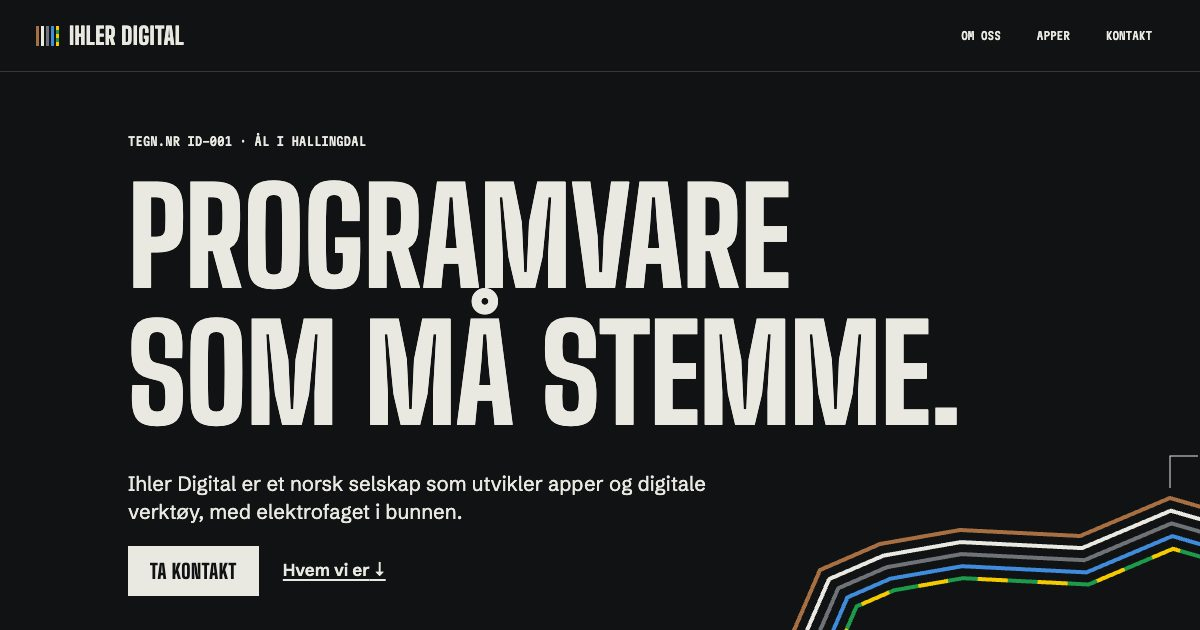
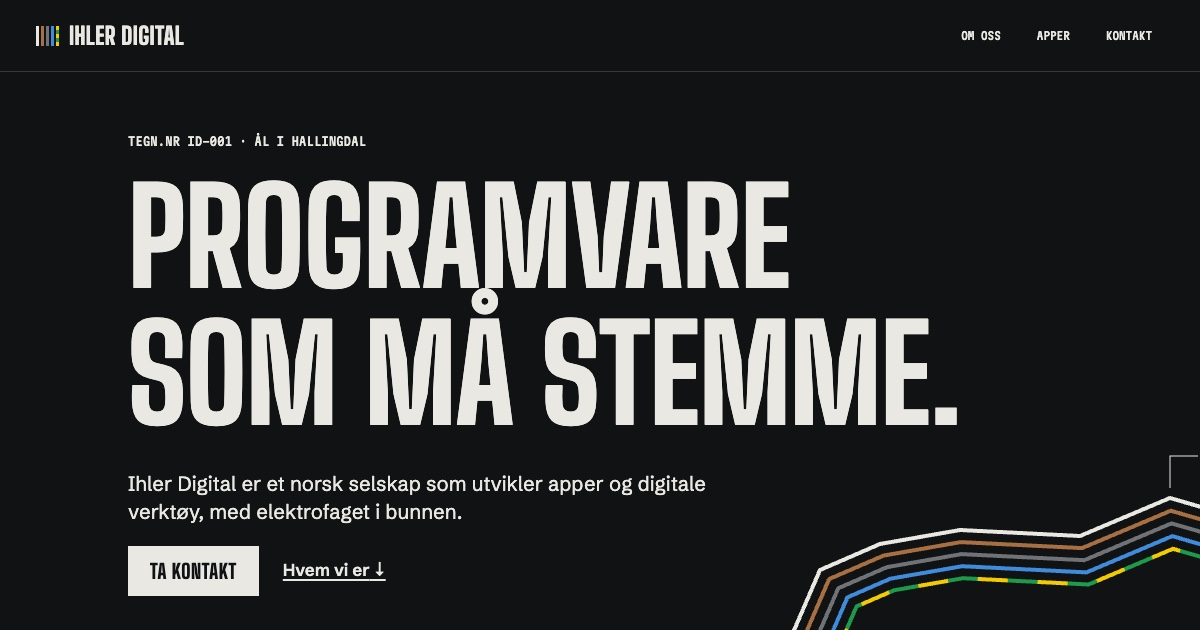
Rett faserekkefølgen til norsk NEK 400: L1 sort, L2 brun, L3 grå

Changed region(s): [[0.6475, 0.7841, 1.0, 1.0]]

diff --git a/style.css b/style.css
@@ -5,7 +5,7 @@
 
 :root{
   --papir:#e7e8e3;--flate:#f3f3ef;--blekk:#14161a;--dempet:#4c5057;--strek:#14161a2e;
-  --l1:#7a4a26;--l2:#14161a;--l3:#8a8d90;--n:#1c69be;--pe-g:#1e9a4b;--pe-y:#f4cb00;
+  --l1:#14161a;--l2:#7a4a26;--l3:#8a8d90;--n:#1c69be;--pe-g:#1e9a4b;--pe-y:#f4cb00;
   --lenke:currentColor;
   --gul:#ffc800;--paa-gul:#14161a;
   --stor:"Big Shoulders",Impact,"Arial Narrow",sans-serif;
@@ -16,7 +16,7 @@
 }
 @media (prefers-color-scheme:dark){:root{
   --papir:#101214;--flate:#191c1f;--blekk:#e9e9e2;--dempet:#a8acb0;--strek:#e9e9e22e;
-  --l1:#a86f42;--l2:#e9e9e2;--l3:#6f7377;--n:#3f8cdd;
+  --l1:#e9e9e2;--l2:#a86f42;--l3:#6f7377;--n:#3f8cdd;
 }}
 @media (min-width:820px){:root{--L:36px;--s:12px;--w:4px;--inn:128px;--hoyre:48px}}
 
@@ -103,13 +103,13 @@ tbody tr td:last-child{white-space:nowrap}
 
 /* Kurs-bånd */
 .kurs,.apphelt{position:relative;contain:paint;padding-block:clamp(44px,7vw,110px);background:var(--bg);color:var(--ink)}
-.el{--bg:var(--gul);--ink:#14161a;--blekk:#14161a;--l1:#7a4a26;--l2:#14161a;--l3:#5f6265;--n:#1457a3}
-.ga{--bg:#cfccc4;--ink:#1a1a18;--blekk:#1a1a18;--l1:#7a4a26;--l2:#1a1a18;--l3:#6d6f70;--n:#1457a3}
+.el{--bg:var(--gul);--ink:#14161a;--blekk:#14161a;--l1:#14161a;--l2:#7a4a26;--l3:#5f6265;--n:#1457a3}
+.ga{--bg:#cfccc4;--ink:#1a1a18;--blekk:#1a1a18;--l1:#1a1a18;--l2:#7a4a26;--l3:#6d6f70;--n:#1457a3}
 .hl{--bg:var(--flate);--ink:var(--blekk)}
-.tr{--bg:#3a2315;--ink:#fff3e0;--blekk:#fff3e0;--l1:#d59a63;--l2:#fff3e0;--l3:#a79a8c}
-.tl{--bg:#0d2b2b;--ink:#dcfbe9;--blekk:#dcfbe9;--l1:#c08a57;--l2:#dcfbe9;--l3:#8aa5a0}
+.tr{--bg:#3a2315;--ink:#fff3e0;--blekk:#fff3e0;--l1:#fff3e0;--l2:#d59a63;--l3:#a79a8c}
+.tl{--bg:#0d2b2b;--ink:#dcfbe9;--blekk:#dcfbe9;--l1:#dcfbe9;--l2:#c08a57;--l3:#8aa5a0}
 .tl .knapp{background:#4be3a8;color:#07211c}
-.bk{--bg:#1b2252;--ink:#fff;--blekk:#fff;--l1:#c08a57;--l2:#fff;--l3:#9aa2c0}
+.bk{--bg:#1b2252;--ink:#fff;--blekk:#fff;--l1:#fff;--l2:#c08a57;--l3:#9aa2c0}
 .sti{margin-bottom:14px}
 .kjempe{font:800 clamp(3.75rem,15.5vw,15rem)/.92 var(--stor);text-transform:uppercase;letter-spacing:-.005em}
 .kjempe span{display:block}

diff --git a/DESIGN.md b/DESIGN.md
@@ -12,7 +12,7 @@ Skjermbilder og tekst fra Panic, Teenage Engineering, Playdate, Lux (Halide) og 
 Fellesnevner for de særegne: ett eget *system* hentet fra det de faktisk driver med, ikke en stil.
 
 ## Retning: Koblingsskjemaet
-Selskapet har elektrofaget i huset. Hele nettstedet er tegnet som et elektroskjema. Fem ledere med ekte fargekoder (brun L1, svart L2, grå L3, blå N, gul/grønn PE) kommer inn fra høyre, tegner profilen av Hallingskarvet, faller ned i venstre marg og blir en samleskinne som går gjennom hele siden. Hver app er en **kurs** som er koblet på skinna. Bunnen er et **tittelfelt** som på en arbeidstegning.
+Selskapet har elektrofaget i huset. Hele nettstedet er tegnet som et elektroskjema. Fem ledere med ekte fargekoder (svart L1, brun L2, grå L3 (norsk NEK 400, 514.3.2), blå N, gul/grønn PE) kommer inn fra høyre, tegner profilen av Hallingskarvet, faller ned i venstre marg og blir en samleskinne som går gjennom hele siden. Hver app er en **kurs** som er koblet på skinna. Bunnen er et **tittelfelt** som på en arbeidstegning.
 
 Tonen er verkstedets: kort, tørr, konkret. Ingen «innovative løsninger». Tall og mål framfor adjektiver.
 
@@ -27,7 +27,8 @@ Papir er kaldt tegnegrått, ikke varm krem. Blekk er nesten svart.
 |---|---|---|
 | Papir | `#E7E8E3` | `#101214` |
 | Blekk | `#14161A` | `#E9E9E2` |
-| L1 brun | `#7A4A26` | `#A86F42` |
+| L1 svart | `#14161A` | `#E9E9E2` |
+| L2 brun | `#7A4A26` | `#A86F42` |
 | L3 grå | `#8A8D90` | `#6F7377` |
 | N blå | `#1C69BE` | `#3F8CDD` |
 | PE | `#1E9A4B` / `#F4CB00` | samme |
